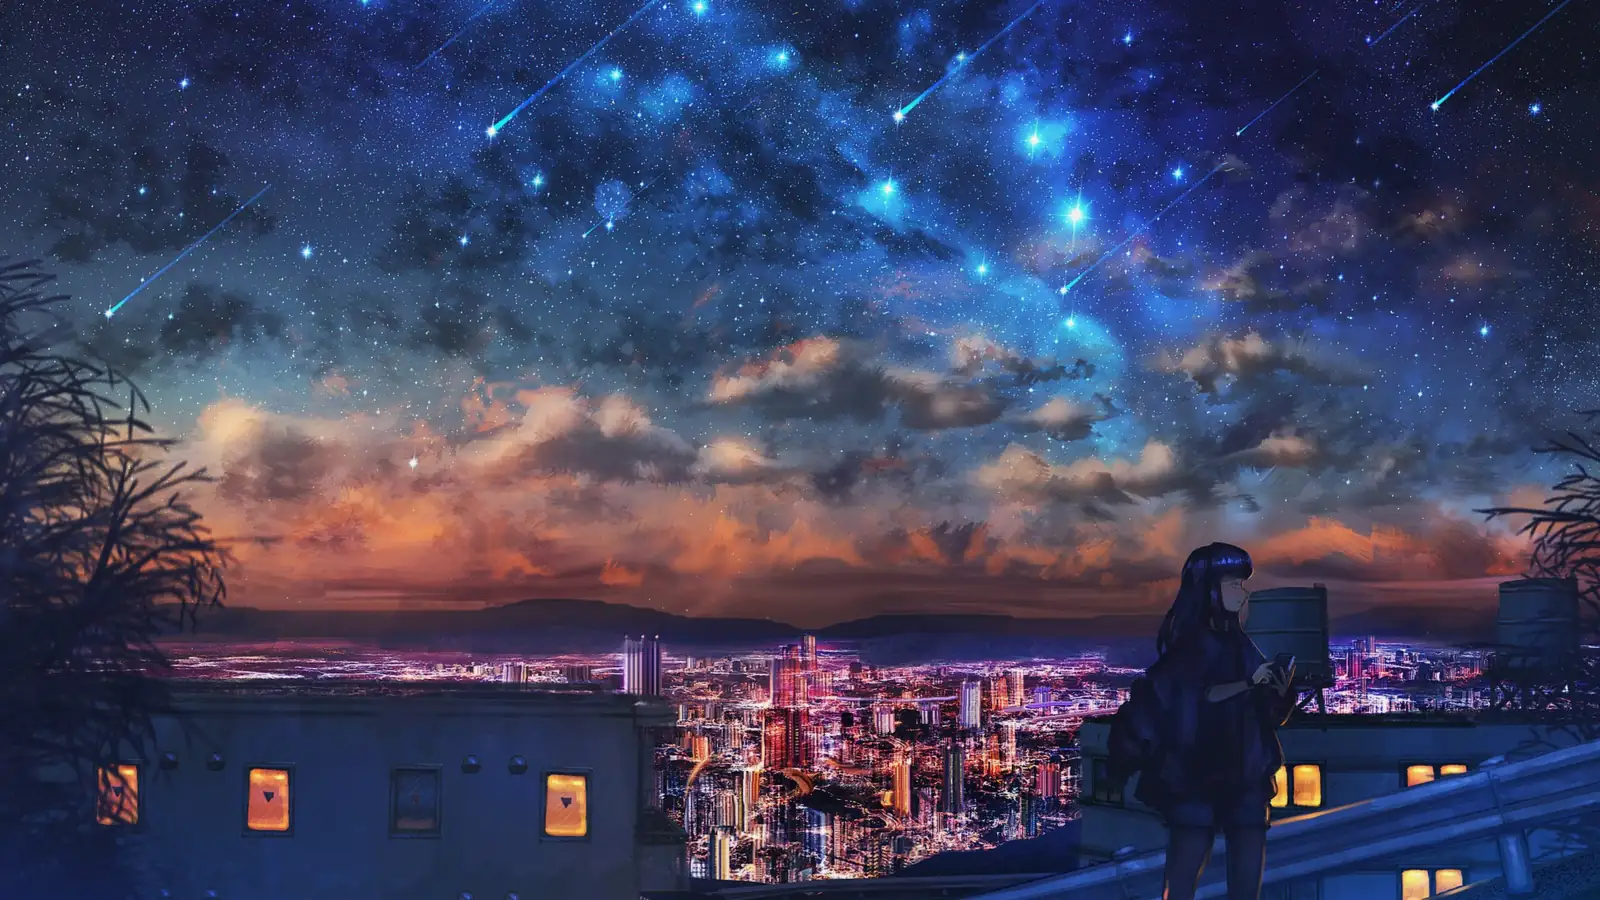
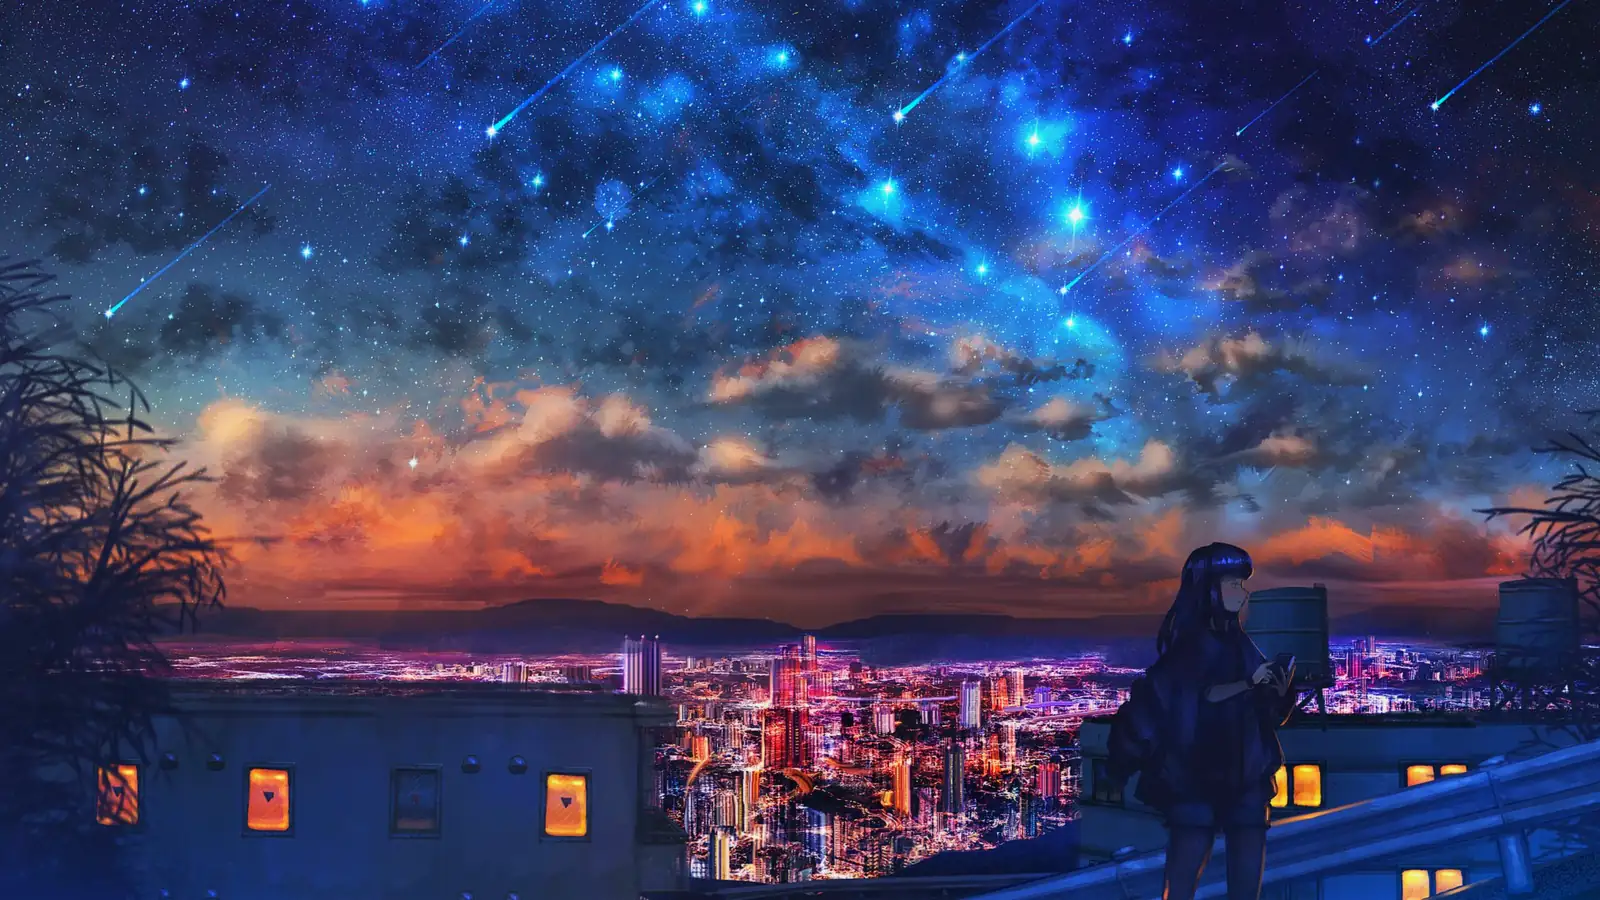
feat: 壁纸与面板提彩度（亮度与彩度分开拧）+ 壁纸 URL 加指纹

diff --git a/assets/css/extended/08-reader.css b/assets/css/extended/08-reader.css
@@ -44,16 +44,17 @@
   letter-spacing: .02em;
 }
 
-/* 正文容器卡片化。2026-09-19：blur 8px → 5px，让透过来的壁纸「清楚」而不只是「更亮」
-   （--surface 同步降到 .70，见 00-theme.css）。顺带是合成开销的净收益。 */
+/* 正文容器卡片化。2026-09-19：blur 8px → 5px → 3px，并加 saturate —— 面板的「灰」来自
+   底色把身后的图同时压暗**和**去彩，而 saturate() 按 luma 系数保持亮度，所以提彩不动文字
+   对比度（--surface 同步降到 .70，见 00-theme.css）。降 blur 同理只增清晰、不改亮度统计。 */
 .post-single {
   background: var(--surface);
   border: 1px solid var(--surface-border);
   border-radius: 14px;
   padding: 2.2rem 2.4rem 2.6rem;
   box-shadow: var(--shadow-card);
-  backdrop-filter: blur(5px);
-  -webkit-backdrop-filter: blur(5px);
+  backdrop-filter: saturate(135%) blur(3px);
+  -webkit-backdrop-filter: saturate(135%) blur(3px);
 }
 
 @media (max-width: 640px) {

diff --git a/layouts/_partials/extend_head.html b/layouts/_partials/extend_head.html
@@ -122,7 +122,10 @@
 {{- range $side := (slice "light" "dark") }}
 {{- $path := index $p $side }}
 {{- if $path }}
-{{- with resources.Get $path }}
+{{- /* 必须 fingerprint：壁纸 URL 不带内容 hash 的话，换了图字节老访客会一直看着缓存里的旧图
+       （仓库里同类的坑：换 logo 要强刷）。带 hash 之后换素材只改文件名，缓存自动失效。
+       只有当前生效的那一张会被请求，所以多这一层不影响流量。 */}}
+{{- with resources.Get $path | fingerprint }}
 {{- $vars = $vars | append (printf "--bg-image-%s:url('%s')" $side .RelPermalink) }}
 {{- else }}
 {{- errorf "[params.appearance.presets] %q 的 %s 图 %q 在 assets/ 下找不到" $id $side $path }}

diff --git a/assets/css/extended/00-theme.css b/assets/css/extended/00-theme.css
@@ -131,8 +131,8 @@ body::before {
 .header {
   background: var(--surface);
   border-bottom: 1px solid var(--surface-border);
-  backdrop-filter: saturate(150%) blur(6px);
-  -webkit-backdrop-filter: saturate(150%) blur(6px);
+  backdrop-filter: saturate(170%) blur(6px);
+  -webkit-backdrop-filter: saturate(170%) blur(6px);
 }
 
 /* 顶栏下沿一条 1px 的蔷薇渐隐线：滚动时它和内容之间有一道「装订线」 */

diff --git a/assets/css/extended/09-home.css b/assets/css/extended/09-home.css
@@ -124,8 +124,8 @@
   border-radius: 10px;
   border: 1px solid var(--surface-border);
   background: var(--surface);
-  backdrop-filter: blur(4px);
-  -webkit-backdrop-filter: blur(4px);
+  backdrop-filter: saturate(135%) blur(3px);
+  -webkit-backdrop-filter: saturate(135%) blur(3px);
   transition: border-color .2s ease, transform .2s ease;
 }
 

diff --git a/assets/css/extended/01-cards.css b/assets/css/extended/01-cards.css
@@ -62,8 +62,8 @@ article.post-entry:hover {
   border-radius: 14px;
   padding: 1.4rem 1.9rem 1.5rem;
   box-shadow: var(--shadow-card);
-  backdrop-filter: blur(5px);
-  -webkit-backdrop-filter: blur(5px);
+  backdrop-filter: saturate(135%) blur(3px);
+  -webkit-backdrop-filter: saturate(135%) blur(3px);
 }
 
 @media (max-width: 640px) {

diff --git a/tools/backgrounds/make-backgrounds.py b/tools/backgrounds/make-backgrounds.py
@@ -116,7 +116,7 @@ def city_background():
     src = os.path.join(ROOT, "tools", "backgrounds", "source-night-city.jpg")
     im = Image.open(src).convert("RGB").resize((1600, 900), Image.LANCZOS)
     im = ImageEnhance.Brightness(im).enhance(0.85)
-    im = ImageEnhance.Color(im).enhance(0.92)
+    im = ImageEnhance.Color(im).enhance(1.20)   # 2026-09-19 从 0.92 提起，理由同 daylight_city_background
     im = Image.blend(im, Image.new("RGB", im.size, (120, 165, 220)), 0.06)   # 冷调，压掉一点暖黄灯火
     save(im, os.path.join("assets", "images", "bg-night-city.webp"), quality=74)
 
@@ -199,7 +199,11 @@ def daylight_city_background():
     ch = round(w * 9 / 16)
     im = im.crop((0, h - ch, w, h)).resize((1600, 900), Image.LANCZOS)
     im = ImageEnhance.Brightness(im).enhance(1.02)
-    im = ImageEnhance.Color(im).enhance(0.86)                                # 天空别太蓝，浅色主题压不住
+    # 2026-09-19 从 0.86 提到 1.15。**彩度与亮度是两个旋钮**：蒙版只压亮度、保住了文字对比度，
+    # 但它同时把彩度也洗掉了（叠加这里的降彩度 = 削两轮），「灰蒙蒙」主要来自这里。
+    # ImageEnhance.Color 按 luma 混合，逐像素亮度不变 → 提彩度不动对比度，不必重量那张表。
+    # 实拍图提太狠会出色带，所以比少女套保守。
+    im = ImageEnhance.Color(im).enhance(1.15)
     im = Image.blend(im, Image.new("RGB", im.size, (250, 247, 250)), 0.07)   # 掺主题底色，与蒙版同温
     save(im, os.path.join("assets", "images", "bg-daylight-city.webp"), quality=72)
 
@@ -287,7 +291,7 @@ def girl_backgrounds():
     # 贴顶裁（y0=0）：源图 2048×1352，裁掉的是底部 200px 的甲板栏杆；上缘只留 90px 给她头顶，
     # 再往下裁就切到头发了。
     day = day.crop((0, 0, w, ch)).resize((1600, 900), Image.LANCZOS)
-    day = ImageEnhance.Color(day).enhance(0.95)
+    day = ImageEnhance.Color(day).enhance(1.35)   # 见 daylight_city_background 的注释：彩度是独立旋钮
     day = Image.blend(day, Image.new("RGB", day.size, (250, 247, 250)), 0.05)
     save(day, os.path.join("assets", "images", "bg-daylight-girl.webp"), quality=72)
 
@@ -302,6 +306,7 @@ def girl_backgrounds():
     # 实测 q64 从 156 KB 降到 132 KB（与城市套那张 125 KB 同量级）；两种画法在页面上的差别
     # 由截图核对，不是靠 RMSE —— 蒙版压到 .66~.90 之后这个量级的差异看不见。
     night = night.filter(ImageFilter.GaussianBlur(0.4))
+    night = ImageEnhance.Color(night).enhance(1.30)   # 2026-09-19 新增：原来这张只掺墨色、没提彩度
     night = Image.blend(night, Image.new("RGB", night.size, (11, 10, 15)), 0.05)   # 掺墨色，压住城市灯火的橙
     save(night, os.path.join("assets", "images", "bg-night-girl.webp"), quality=64)
 

diff --git a/docs/features.md b/docs/features.md
@@ -121,7 +121,7 @@ PingFang/雅黑字体栈、行高 1.85、两端对齐、标题行高收紧、中
 
 **城市套的两张是同一座城市、两个时刻**：夜间是上暗下亮的墨紫 + 月亮 + 亮窗城市，日间是亮天 + 大团积云 + 暗色天际线。切换主题的观感因此是「换了个时辰」而不是「换了张壁纸」（少女套沿用同一思路，见下）。
 
-深色主题用的是**真图**：`assets/images/bg-night-city.webp`（1600×900，127 KB，夜景城市 + 星空）。蒙版 `.54→.84`——原来的 `.72→.92` 把真图压没了，那正是「看不出有背景」的原因。放宽是安全的：正文可读性由 `.post-single` / `.page-header` 的 `--surface`（2026-09-19 起浅色 70% / 深色 72% 不透明 + `backdrop-filter: blur(5px)`）与列表卡片自己承担，不靠这层蒙版。**代价要认清**：127 KB 对一张每页都下载的资源不算小（纯质感图是 4 KB），换来的是首屏与页面边缘真的有气氛。出处：Wallhaven `wallhaven.cc/w/wy6vqx`（画师作品，个人使用），源图压到 1600 宽存 `tools/backgrounds/source-night-city.jpg`（358 KB），由 `make-backgrounds.py` 的 `city_background()` 处理。
+深色主题用的是**真图**：`assets/images/bg-night-city.webp`（1600×900，127 KB，夜景城市 + 星空）。蒙版 `.54→.84`——原来的 `.72→.92` 把真图压没了，那正是「看不出有背景」的原因。放宽是安全的：正文可读性由 `.post-single` / `.page-header` 的 `--surface`（2026-09-19 起浅色 70% / 深色 72% 不透明 + `backdrop-filter: saturate(135%) blur(3px)`）与列表卡片自己承担，不靠这层蒙版。**代价要认清**：127 KB 对一张每页都下载的资源不算小（纯质感图是 4 KB），换来的是首屏与页面边缘真的有气氛。出处：Wallhaven `wallhaven.cc/w/wy6vqx`（画师作品，个人使用），源图压到 1600 宽存 `tools/backgrounds/source-night-city.jpg`（358 KB），由 `make-backgrounds.py` 的 `city_background()` 处理。
 
 **另有一版把黑发少女叠在城市上的合成图**（Wallhaven `wallhaven.cc/w/6lwmy7`，源切片 `source-lady-slice.webp`，函数 `city_lady_background()`）——上线后撤回了：压在蒙版下她显得突兀。当时把「人物」这个位置交给了右下角的看板娘（见 ㉕）。**2026-09-19 起人物以**「黑长直少女」套**的形式回来了**（单独一套、单独一套蒙版，见下），看板娘仍然保留，于是「人是人、背景是背景」这条不再是唯一做法。合成版文件 `bg-night-city-lady.webp` 与脚本都留着，想切回去只改 `hugo.toml` 一行。
 
@@ -131,9 +131,15 @@ PingFang/雅黑字体栈、行高 1.85、两端对齐、标题行高收紧、中
 
 **它为什么压得住蒙版**：上半张是大团积云的**边缘**，下半张是牙签一样细的天际线轮廓——都是小尺度明暗对比。夜景那张靠的也是同一件事（「亮窗对暗天」）。反过来，一整块具象的东西（月亮、人物、大片纯色天空）压到 55~85% 就只剩一块灰白斑，这是早先试真图和具象插画失败的原因，经验写在 `make-backgrounds.py` 的文件头与 `skyline()` 的注释里。**顺带把浅色蒙版从 `.55→.85` 调薄到 `.46→.60→.76`**：照片进来之后旧的薄厚只够看见一层灰（依据见下面的对比度实测）。
 
-**「黑长直少女」套（2026-09-19 新增，当前是默认套）**：`bg-daylight-girl.webp`（87 KB）/ `bg-night-girl.webp`（132 KB），由 `make-backgrounds.py` 的 `girl_backgrounds()` 从 `source-girl-day.jpg` / `source-girl-night.jpg` 生成。两张是同一母题的日/夜对照，与城市套同理——都是「少女 + 城市全景 + 天空」：日间是撑透明伞站在山坡上俯瞰海湾城市，夜间是屋顶上看星空下的夜城，人物分别在画面横向 66% / 76% 处，所以切主题时她不跳位置。素材从 safebooru 按 `black_hair long_hair rating:safe` 收的一批候选中挑出（抓取与筛选脚本在仓库外的 `.shots/pick-girl-bg.py` 与 `finalists.py`，接触表留在 `.shots/girlbg/`）。出处都是同人插画、版权在画师手里：pixiv `artworks/87155937`（日）与 `artworks/77002104`（夜），个人非商业使用并保留出处。
+**「黑长直少女」套（2026-09-19 新增，当前是默认套）**：`bg-daylight-girl.webp`（92 KB）/ `bg-night-girl.webp`（137 KB），由 `make-backgrounds.py` 的 `girl_backgrounds()` 从 `source-girl-day.jpg` / `source-girl-night.jpg` 生成。两张是同一母题的日/夜对照，与城市套同理——都是「少女 + 城市全景 + 天空」：日间是撑透明伞站在山坡上俯瞰海湾城市，夜间是屋顶上看星空下的夜城，人物分别在画面横向 66% / 76% 处，所以切主题时她不跳位置。素材从 safebooru 按 `black_hair long_hair rating:safe` 收的一批候选中挑出（抓取与筛选脚本在仓库外的 `.shots/pick-girl-bg.py` 与 `finalists.py`，接触表留在 `.shots/girlbg/`）。出处都是同人插画、版权在画师手里：pixiv `artworks/87155937`（日）与 `artworks/77002104`（夜），个人非商业使用并保留出处。
 
-处理比城市那套克制（只去饱和 `.95`、掺 5% 主题底色），另有一处纯为体积：夜间那张的密集星场 q74 要 176 KB，加 0.4px 亚像素模糊后 q64 降到 132 KB——它削的是星点的单像素高频噪，在 `.66~.90` 的蒙版下量不出差别（判据是页面截图，不是 RMSE）。
+处理比城市那套克制（掺 5% 主题底色），另有一处纯为体积：夜间那张的密集星场 q74 要 176 KB，加 0.4px 亚像素模糊后 q64 降到 132 KB——它削的是星点的单像素高频噪，在 `.66~.90` 的蒙版下量不出差别（判据是页面截图，不是 RMSE）。
+
+**彩度是单独一个旋钮（2026-09-19）**：原来这几张在管线里就被**降过彩度**（少女 `Color(0.95)`、浅色城市 `Color(0.86)`），运行时蒙版再洗一遍，等于彩度被削两轮——页面上那个「灰蒙蒙」主要是这么来的。现在改成提彩度：少女日间 `1.35`、夜间新增 `1.30`，城市日间 `1.15`、夜间 `1.20`（实拍图提太狠会出色带，所以比插画保守）。
+
+为什么敢这么提——**亮度与彩度是两个独立的量**：WCAG 对比度只看亮度，而 `ImageEnhance.Color` 按 luma 系数混合、**逐像素亮度不变**，`saturate()` 同理（面板的 `backdrop-filter` 里也加了一条，抵掉底色对身后图的去彩）。所以提彩度不动对比度，改完 `measure.py` 那张 12 组表**数值几乎不动**（4.79→4.81、5.77→5.78…），是实测确认的、不是推断。同理，**`Brightness(...)` 一律没动**——它才是决定文字对比度的那个旋钮，动它就必须重量那张表。
+
+**壁纸 URL 带内容指纹**（`extend_head.html` 里 `resources.Get $path | fingerprint`）：不带 hash 的话，换了图字节老访客会一直看着缓存里的旧图（仓库里同类的坑：换 logo 要强刷）。带 hash 后换素材只改文件名、缓存自动失效；「只有当前生效那一张会下载」不受影响。
 
 **人物曾把蒙版逼到很厚（2026-09-19 已改掉）**：深色头发与水手服正好落在「按分类浏览 →」「笔记 / 习题」这些**直接压在背景上**的次要色灰字底下。实测 `.62/.74/.86` 时最低只有 **3.68:1**（AA 要 4.5），于是当时把三档推到 `.80/.88/.93` 换回 4.88~6.27:1——代价是图被洗成灰白、人物只剩一层淡影、整页发灰（「背景不透亮」）。
 
@@ -162,7 +168,7 @@ PingFang/雅黑字体栈、行高 1.85、两端对齐、标题行高收紧、中
 
 12 组全部 ≥ AA 的 4.5:1。最差的几处都是**直接压在背景上**的 `--secondary` 灰字（首页的「个人学习记录」、页脚的 `·` 与 `©` 这类分隔文本、章节入口页的分组名）——卡片与正文由自己的 `--surface` 承担对比度，普遍 6:1 以上。所以改蒙版、换图、改底衬 alpha 都要照这张表复测。
 
-**为什么体积这么重要**：背景是**每个页面**都要下载的资源（`body::before` 的 CSS 背景，不能懒加载）。原 JPEG 191 KB 在 4 G 模拟下光它一项就占 521 ms，转 WebP q=70 后 55 KB。现在城市套 60 KB（日）/ 127 KB（夜），少女套 87 KB（日）/ 132 KB（夜），纯质感备选 4~6 KB。换图时**别退回 JPEG**，也别在背景里塞细节——同一张 1600×900 的 WebP，云和天际线能压到 60 KB，细腻纹理（星场、密集建筑）就下不来。注意**只有当前生效那一张会下载**，所以多一套不等于多一份流量，但默认套那张是每个访客都要付的。
+**为什么体积这么重要**：背景是**每个页面**都要下载的资源（`body::before` 的 CSS 背景，不能懒加载）。原 JPEG 191 KB 在 4 G 模拟下光它一项就占 521 ms，转 WebP q=70 后 55 KB。现在城市套 62 KB（日）/ 127 KB（夜），少女套 92 KB（日）/ 137 KB（夜），纯质感备选 4~6 KB。换图时**别退回 JPEG**，也别在背景里塞细节——同一张 1600×900 的 WebP，云和天际线能压到 60 KB，细腻纹理（星场、密集建筑）就下不来。注意**只有当前生效那一张会下载**，所以多一套不等于多一份流量，但默认套那张是每个访客都要付的。
 
 **导航栏那 8 个图标不属于本节的背景体系**：它们是 `tools/icons/make-icons.py` 自绘的 32×32 像素小人（一个菜单项一个角色），16px 显示，接线在 `hugo.toml` 菜单的 `pre` 字段 + `extend_head.html` 生成的 `css/nav-icons.css` + `19-nav-px.css`。为什么必须自绘、为什么是 16px、为什么用背景图而不是 `<img>`，都在 [`architecture.md` 第 6 节](architecture.md) 的「第三条线」里。
 

diff --git a/docs/traps.md b/docs/traps.md
@@ -55,6 +55,9 @@
 | 照规范写了「`filter` 指向不存在的定义时元素完全不渲染」，实测不对 | Chromium 下那只是**当作没有滤镜、照常渲染**（实测红色方块均色仍是纯红） | 别把规范当实测抄进注释。要靠「元素会消失」来做兜底设计时先自己验一遍；兜底理由要写清是防御性的还是实测的 |
 | 听信「`transform` 会打断 `background-attachment: fixed`」，为它删掉 hover 抬升 / 改布局 | 2026-09-19 实测**不成立**：元素自身 identity 变换、自身 `translateY(-2px)`、祖先 `translateY(0)`、祖先 `filter: blur(0)` 四种情形下背景都仍锚定视口（滚动前后同一屏幕区域差异 98~100%，被打断才会接近 0） | 别为这条改设计。真会打断锚定的是 **iOS Safari 把 `background-attachment: fixed` 当 `scroll`** —— 那条只能用断点降级处理 |
 | 加了半透明底衬之后，对比度脚本报出 1.4x 的**假失败**（比没加底衬还差） | 脚本用 `match(/[\d.]+/g)` 取色，而 `color-mix()` 的**计算值**会序列化成 `color(srgb 0.968627 0.960784 0.972549 / 0.72)`，分量是 0~1 的比例 —— 老解析器把 `0.96` 当成 `0.96/255`，即近黑。2026-09-19 实测：浅色城市套首页从 4.74 假跌到 1.49，而真实值反而升高了 | 底衬这类色值写成 **`rgba()` 字面量**（如 `--scrim-bg`），别用 `color-mix()`；`.shots/girlbg/contrast.js` 的解析器已补 `color()` 分支，但换成旧副本的脚本仍会误报 |
+| 背景/面板「灰蒙蒙」，于是想靠**改蒙版**或**加不透明度**解决，结果文字对比度掉到 AA 以下 | 把「亮度」与「彩度」当成了同一个旋钮。**WCAG 对比度只看亮度**，而「灰不灰」看彩度：往白里洗（提高蒙版 alpha）能保文字但把彩度一起洗掉；提不透明度同理。2026-09-19 实测少女套被削两轮彩度（管线 `Color(0.95)` + 运行时蒙版）才是根源 | 两个旋钮分开拧：**彩度用 `ImageEnhance.Color` / `saturate()`**（按 luma 混合，**逐像素亮度不变**，所以不用重量对比度 —— 实测 12 组数值只动 0.01~0.04）；**亮度（`Brightness(...)`、蒙版 alpha、`--surface` 不透明度）改了必须重跑 `.shots/girlbg/measure.py`**。想同时要「画面鲜活 + 面板通透 + 文字达标」，唯一的出路是提彩度而不是动亮度 |
+| 换了 `assets/images/` 下的背景图字节，老访客还是看到旧图 | 壁纸 URL 原先由 `resources.Get $path` 直接取 `.RelPermalink`，**不带内容 hash**，浏览器按 URL 缓存（仓库里同类的坑：换 logo 要强刷） | `resources.Get $path \| fingerprint`，URL 带 hash 后换素材自动失效（`extend_head.html` 已改）。**注意 `public/` 里的旧文件要 `--cleanDestinationDir` 才清掉** |
+| 量背景对比度得到「好得不像话」的数字（面板区域像素几乎全平、极值只差 1） | 截图时**壁纸图还没解码完** → 量到的是「没有壁纸」时的合成值（面板内外都等于主题色，或等于底色盖主题色）。2026-09-19 实测：浅色正文面板量出 13.38，重拍后是 10.55 | 取图前先 `await new Image().decode()`，并**核对一个面板外像素不等于主题色**（如浅色下 (20,450) 应接近壁纸的天空色而不是 (247,245,248)）；这条同时适用于隐藏文字后的取图 |
 
 ## 2. 会「静默」出错的那一类
 
